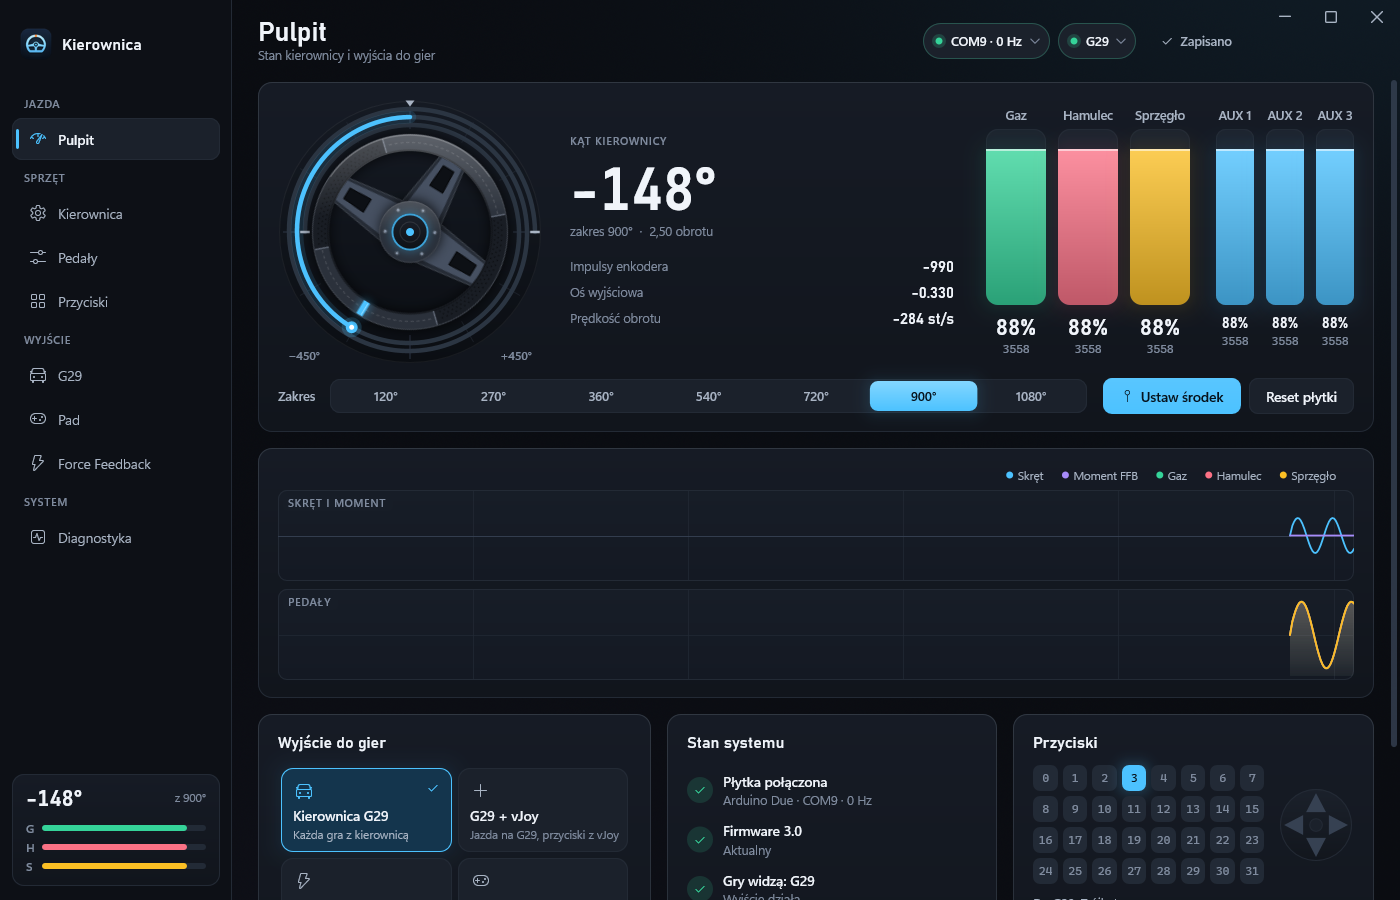
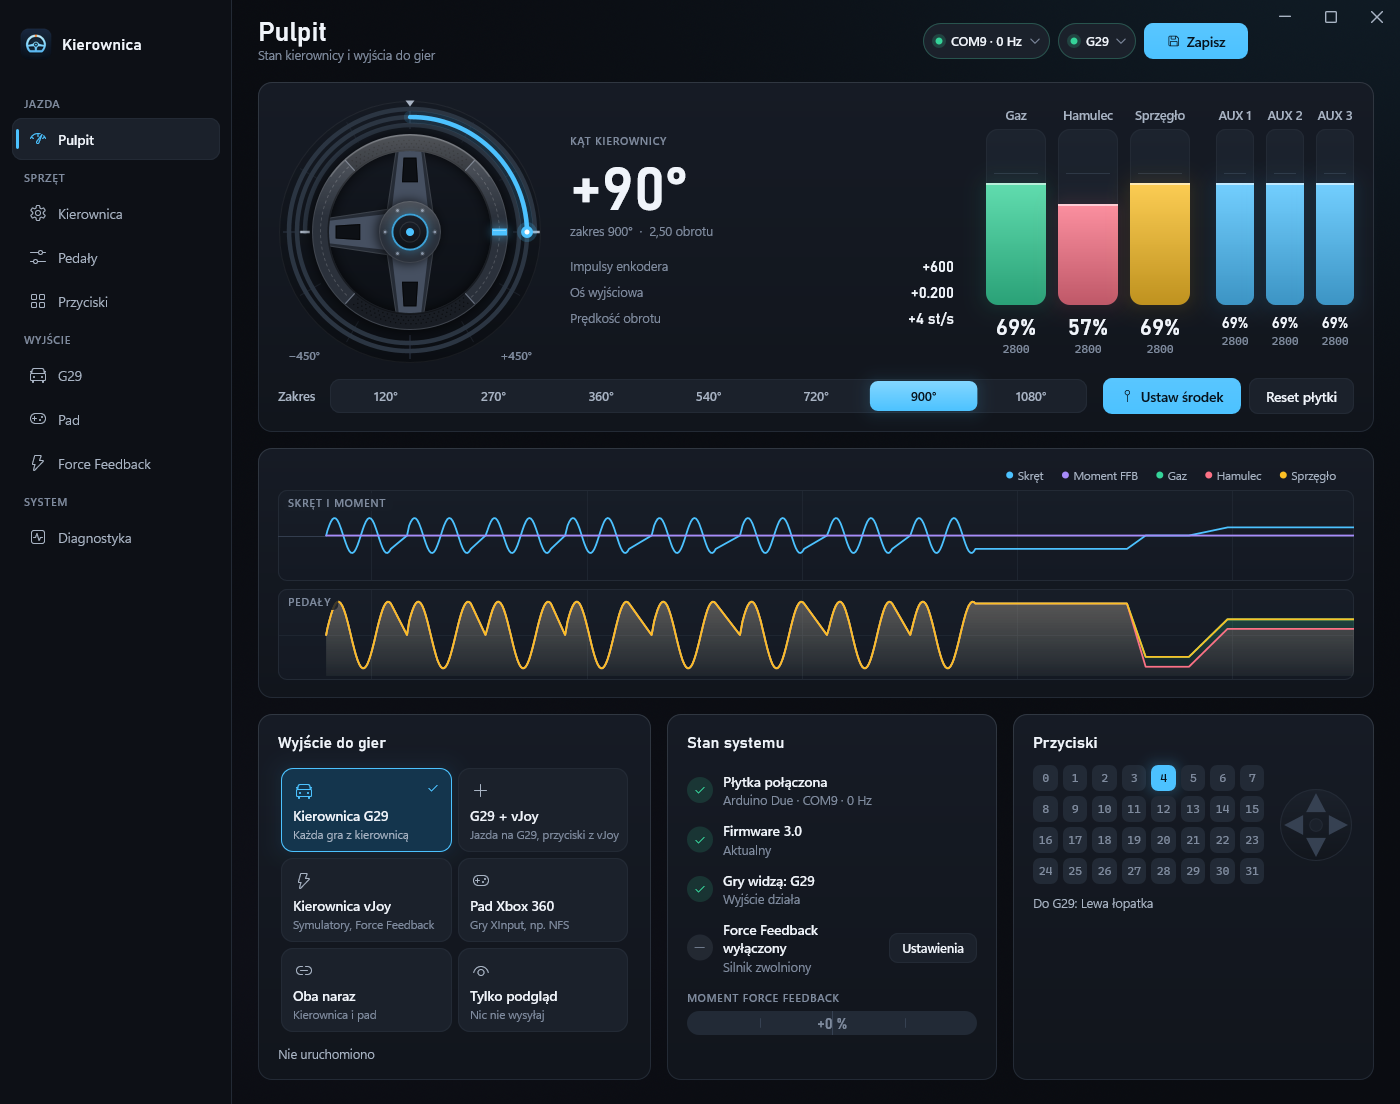
README: caly Pulpit i menu trybu wyjscia
Pulpit z renderu pelnej wysokosci, obcietego do tresci - zrzut 1400x900
ucinal kafelki na dole. Dodane menu trybu wyjscia.

Claude-Session: https://claude.ai/code/session_01YH28qJAykpXiNWbBQ4XT8F

diff --git a/panel/cpp/tools/make_screenshots.py b/panel/cpp/tools/make_screenshots.py
@@ -22,13 +22,32 @@ OUT = ROOT.parents[1] / "docs" / "zrzuty"
 
 # plik z --selftest -> nazwa w docs/zrzuty/
 SHOTS = {
-    "tab_0_Pulpit.png": "pulpit.png",
+    "cala_1400_Pulpit.png": "pulpit.png",
+    "popover_tryb.png": "menu.png",
     "tab_1_Kierownica.png": "kierownica.png",
     "tab_2_Pedały.png": "pedaly.png",
     "g29_po_nauce.png": "g29.png",
     "tab_5_Pad.png": "pad.png",
     "tab_6_Force Feedback.png": "ffb.png",
 }
+# Zrzuty "cala_*" to cala wysokosc strony (2300 px) z pustym tlem pod
+# trescia - obcinane do ostatniego wiersza tresci plus margines.
+MARGIN = 24
+BACKGROUND_TOLERANCE = 30
+
+
+def crop_to_content(img: Image.Image) -> Image.Image:
+    # Szuka od dolu wiersza, ktory w obszarze stron (na prawo od paska
+    # bocznego) rozni sie od tla. Pasek boczny ma na dole kafelek z katem,
+    # wiec nie jest brany pod uwage.
+    width, height = img.size
+    px = img.load()
+    bg = px[width - 100, height - 100]
+    for y in range(height - 1, -1, -1):
+        for x in range(260, width - 10, 4):
+            if sum(abs(a - b) for a, b in zip(px[x, y], bg)) > BACKGROUND_TOLERANCE:
+                return img.crop((0, 0, width, min(height, y + 1 + MARGIN)))
+    return img
 
 
 def main() -> int:
@@ -47,8 +66,11 @@ def main() -> int:
             return 1
         for src, dst in SHOTS.items():
             with Image.open(Path(tmp) / src) as img:
-                img.convert("RGB").save(OUT / dst, optimize=True)
-            print(f"{dst}: {(OUT / dst).stat().st_size // 1024} KB")
+                shot = img.convert("RGB")
+            if src.startswith("cala_"):
+                shot = crop_to_content(shot)
+            shot.save(OUT / dst, optimize=True)
+            print(f"{dst}: {shot.width}x{shot.height}, {(OUT / dst).stat().st_size // 1024} KB")
     return 0
 
 

diff --git a/info.md b/info.md
@@ -2,11 +2,12 @@
 
 ## 2026-11-11 — Zrzuty ekranu panelu w README na GitHubie
 
-**Co zrobione:** README w repozytorium pokazuje panel: duży zrzut Pulpitu pod opisem projektu i sekcję „Zrzuty ekranu” z zakładkami Kierownica, Pedały, G29, Pad i Force Feedback.
+**Co zrobione:** README w repozytorium pokazuje panel. Pod opisem projektu jest duży zrzut Pulpitu (ekranu głównego). Sekcja „Zrzuty ekranu” zawiera cały Pulpit, rozwinięte menu trybu wyjścia oraz zakładki Kierownica, Pedały, G29, Pad i Force Feedback.
 
 **Jak to działa:**
-- Obrazy leżą w `docs/zrzuty/` (`pulpit.png`, `kierownica.png`, `pedaly.png`, `g29.png`, `pad.png`, `ffb.png`, razem ok. 1,7 MB, 1400×900).
+- Obrazy leżą w `docs/zrzuty/`: `pulpit.png` (1400×1104, cały ekran główny), `menu.png` (menu trybu wyjścia), `kierownica.png`, `pedaly.png`, `g29.png`, `pad.png`, `ffb.png`. Pozostałe mają 1400×900, razem ok. 2,1 MB.
 - Generuje je `panel/cpp/tools/make_screenshots.py`. Skrypt uruchamia `Kierownica.exe --selftest <katalog tymczasowy>`: program nie otwiera okna, udaje podłączone Arduino Due z firmware 3.0 i rysuje każdą zakładkę do PNG. Potem skrypt kopiuje wybrane pliki pod stałymi nazwami (mapa `SHOTS`) i zapisuje je jako zoptymalizowane PNG bez strat (Pillow).
+- Pulpit pochodzi z renderu `cala_1400_Pulpit.png`, który ma pełną wysokość strony (2300 px). Funkcja `crop_to_content()` obcina go do ostatniego wiersza treści plus 24 px marginesu. Zwykły zrzut 1400×900 ucinał kafelki „Wyjście do gier” i „Stan systemu”.
 
 **Dlaczego tak:** zrzuty z selftestu są powtarzalne i nie zawierają danych z komputera użytkownika (ścieżek, nazw urządzeń). Można je odświeżyć jednym poleceniem po każdej zmianie wyglądu. Zdjęć samej kierownicy (sprzętu) w projekcie nie ma, więc README pokazuje tylko aplikację. Diagnostyka nie trafiła do galerii, bo w symulacji pokazuje zera (0 Hz, 0 ramek).
 

diff --git a/README.md b/README.md
@@ -99,6 +99,8 @@ Due i ESP32 mają logikę 3,3 V - potencjometry zasilaj z 3,3 V, nie z 5 V.
 
 | | |
 |---|---|
+| ![Pulpit](docs/zrzuty/pulpit.png) | ![Menu trybu wyjścia](docs/zrzuty/menu.png) |
+| **Pulpit** - ekran główny: kąt, pedały, wykresy, stan systemu | **Menu trybu wyjścia** - G29, vJoy, pad Xbox 360 albo kilka naraz |
 | ![Kierownica](docs/zrzuty/kierownica.png) | ![Pedały](docs/zrzuty/pedaly.png) |
 | **Kierownica** - zakres obrotu, impulsy enkodera, charakterystyka | **Pedały** - kreator kalibracji, martwe strefy, krzywe |
 | ![G29](docs/zrzuty/g29.png) | ![Pad](docs/zrzuty/pad.png) |
